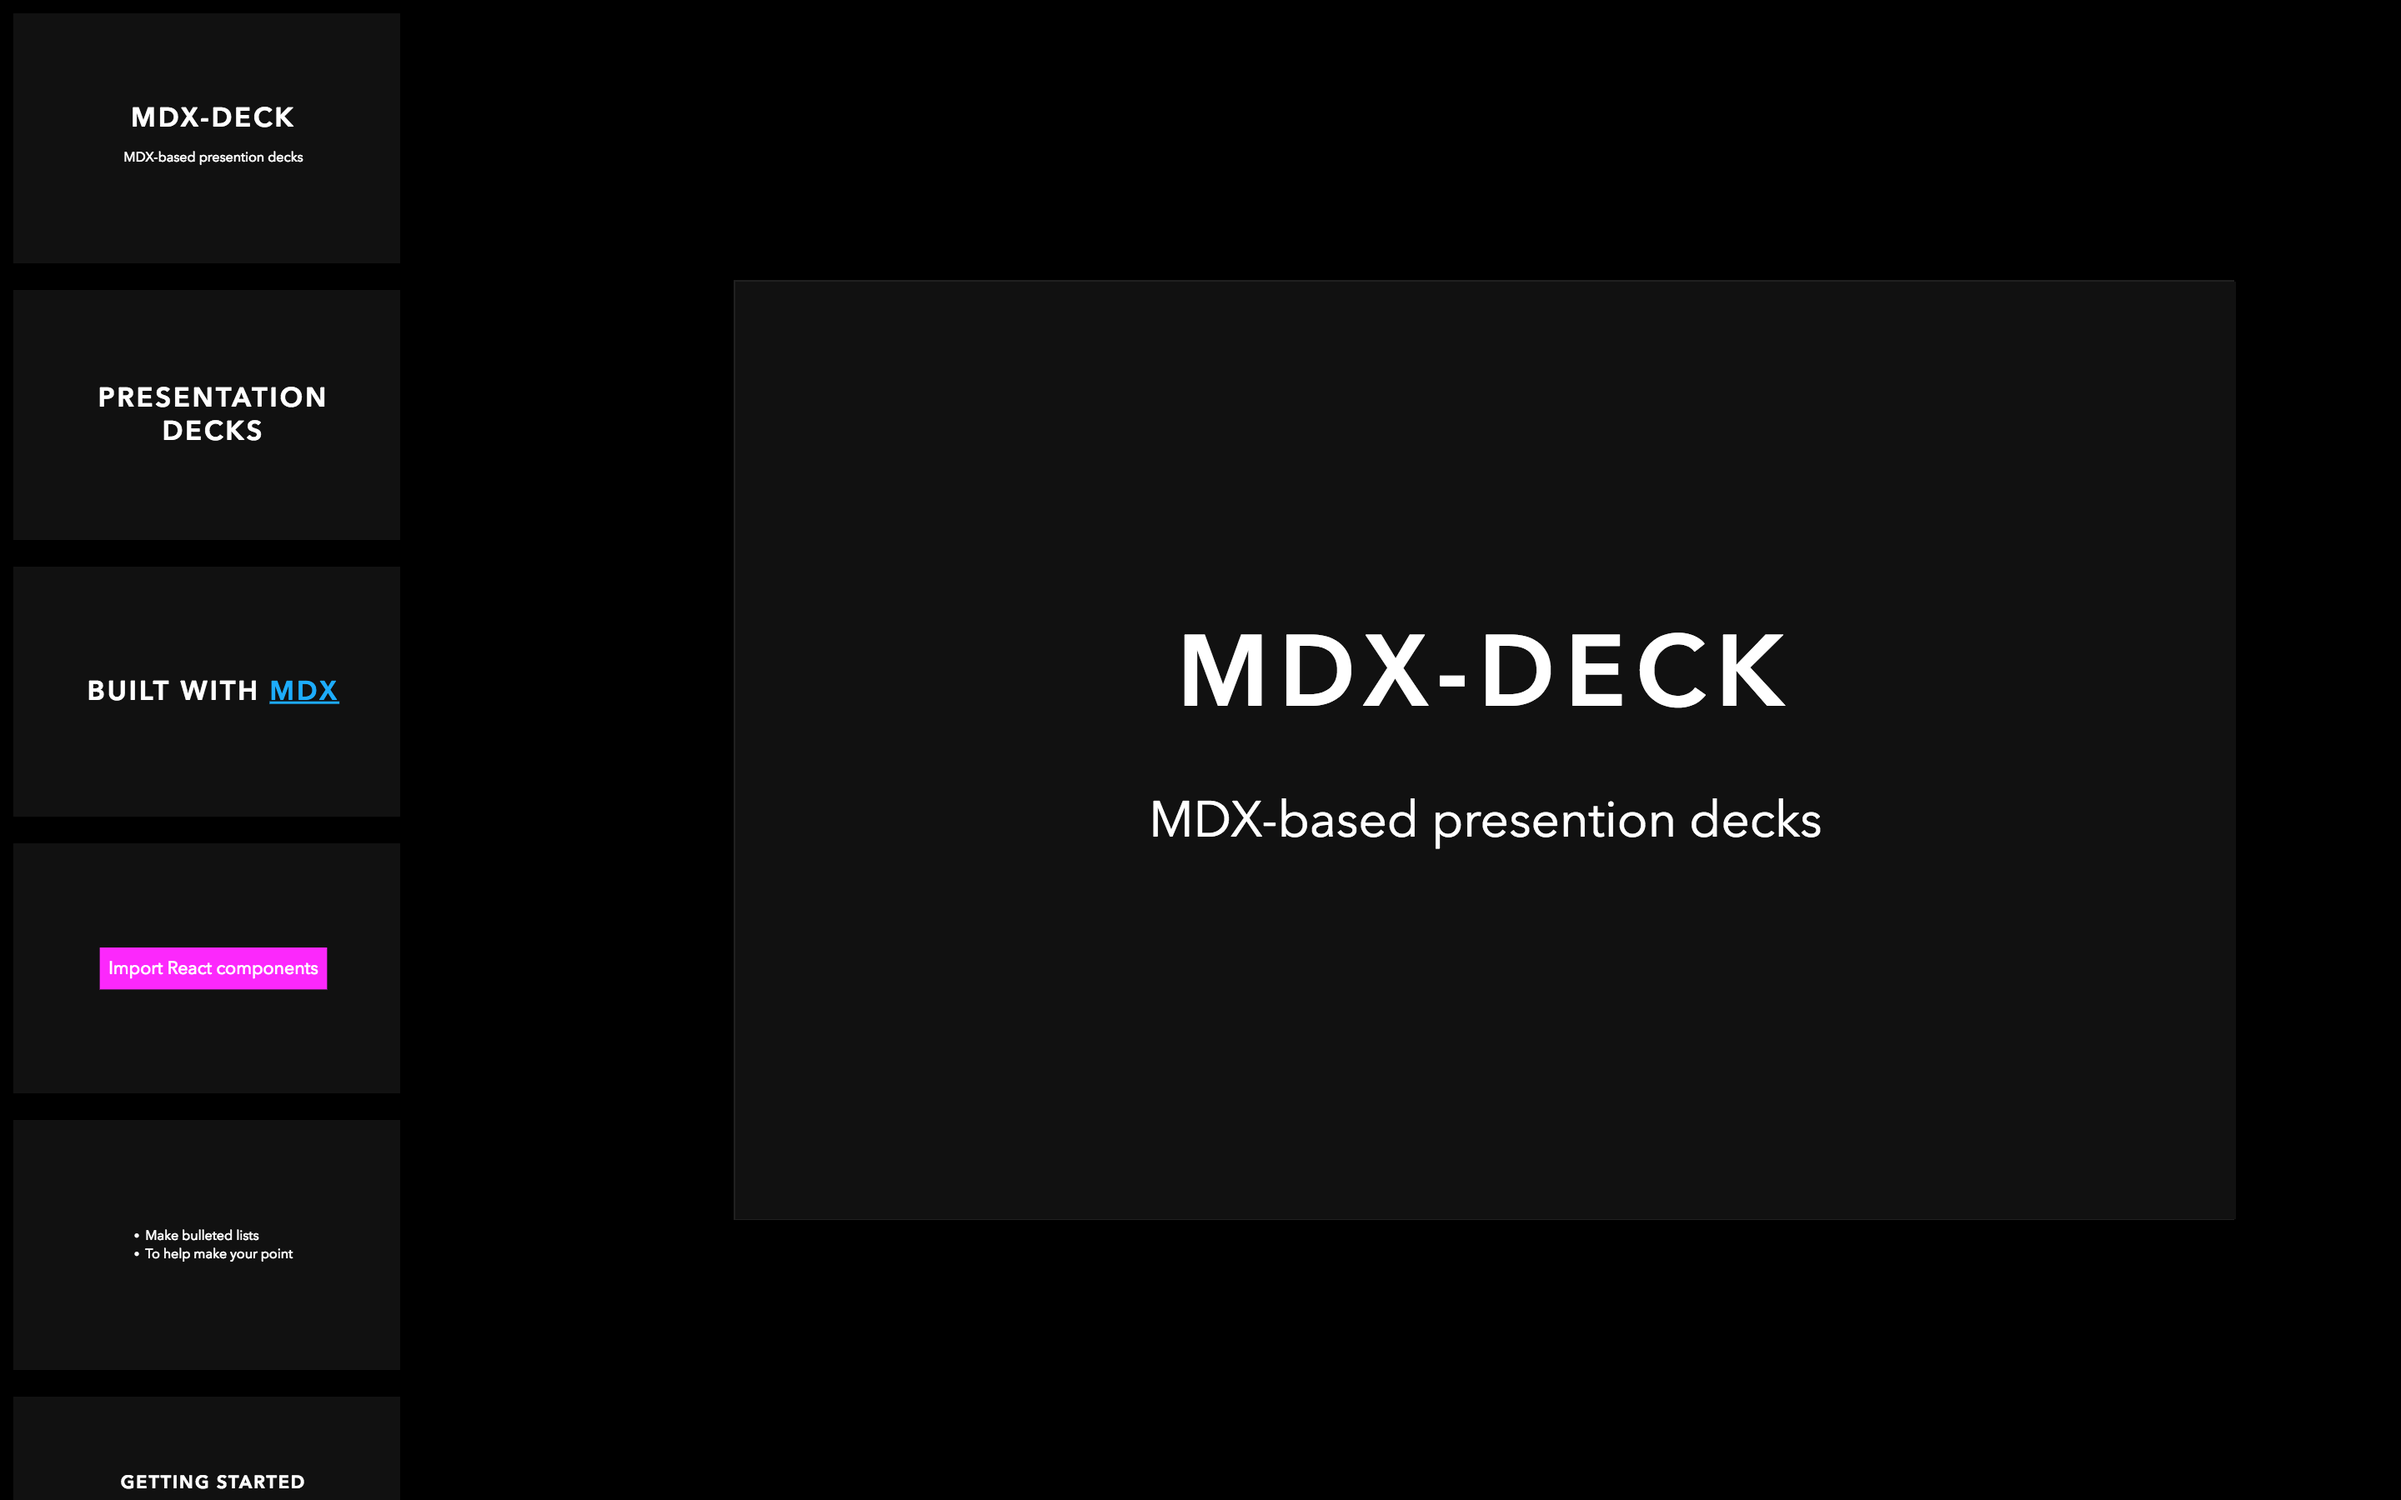
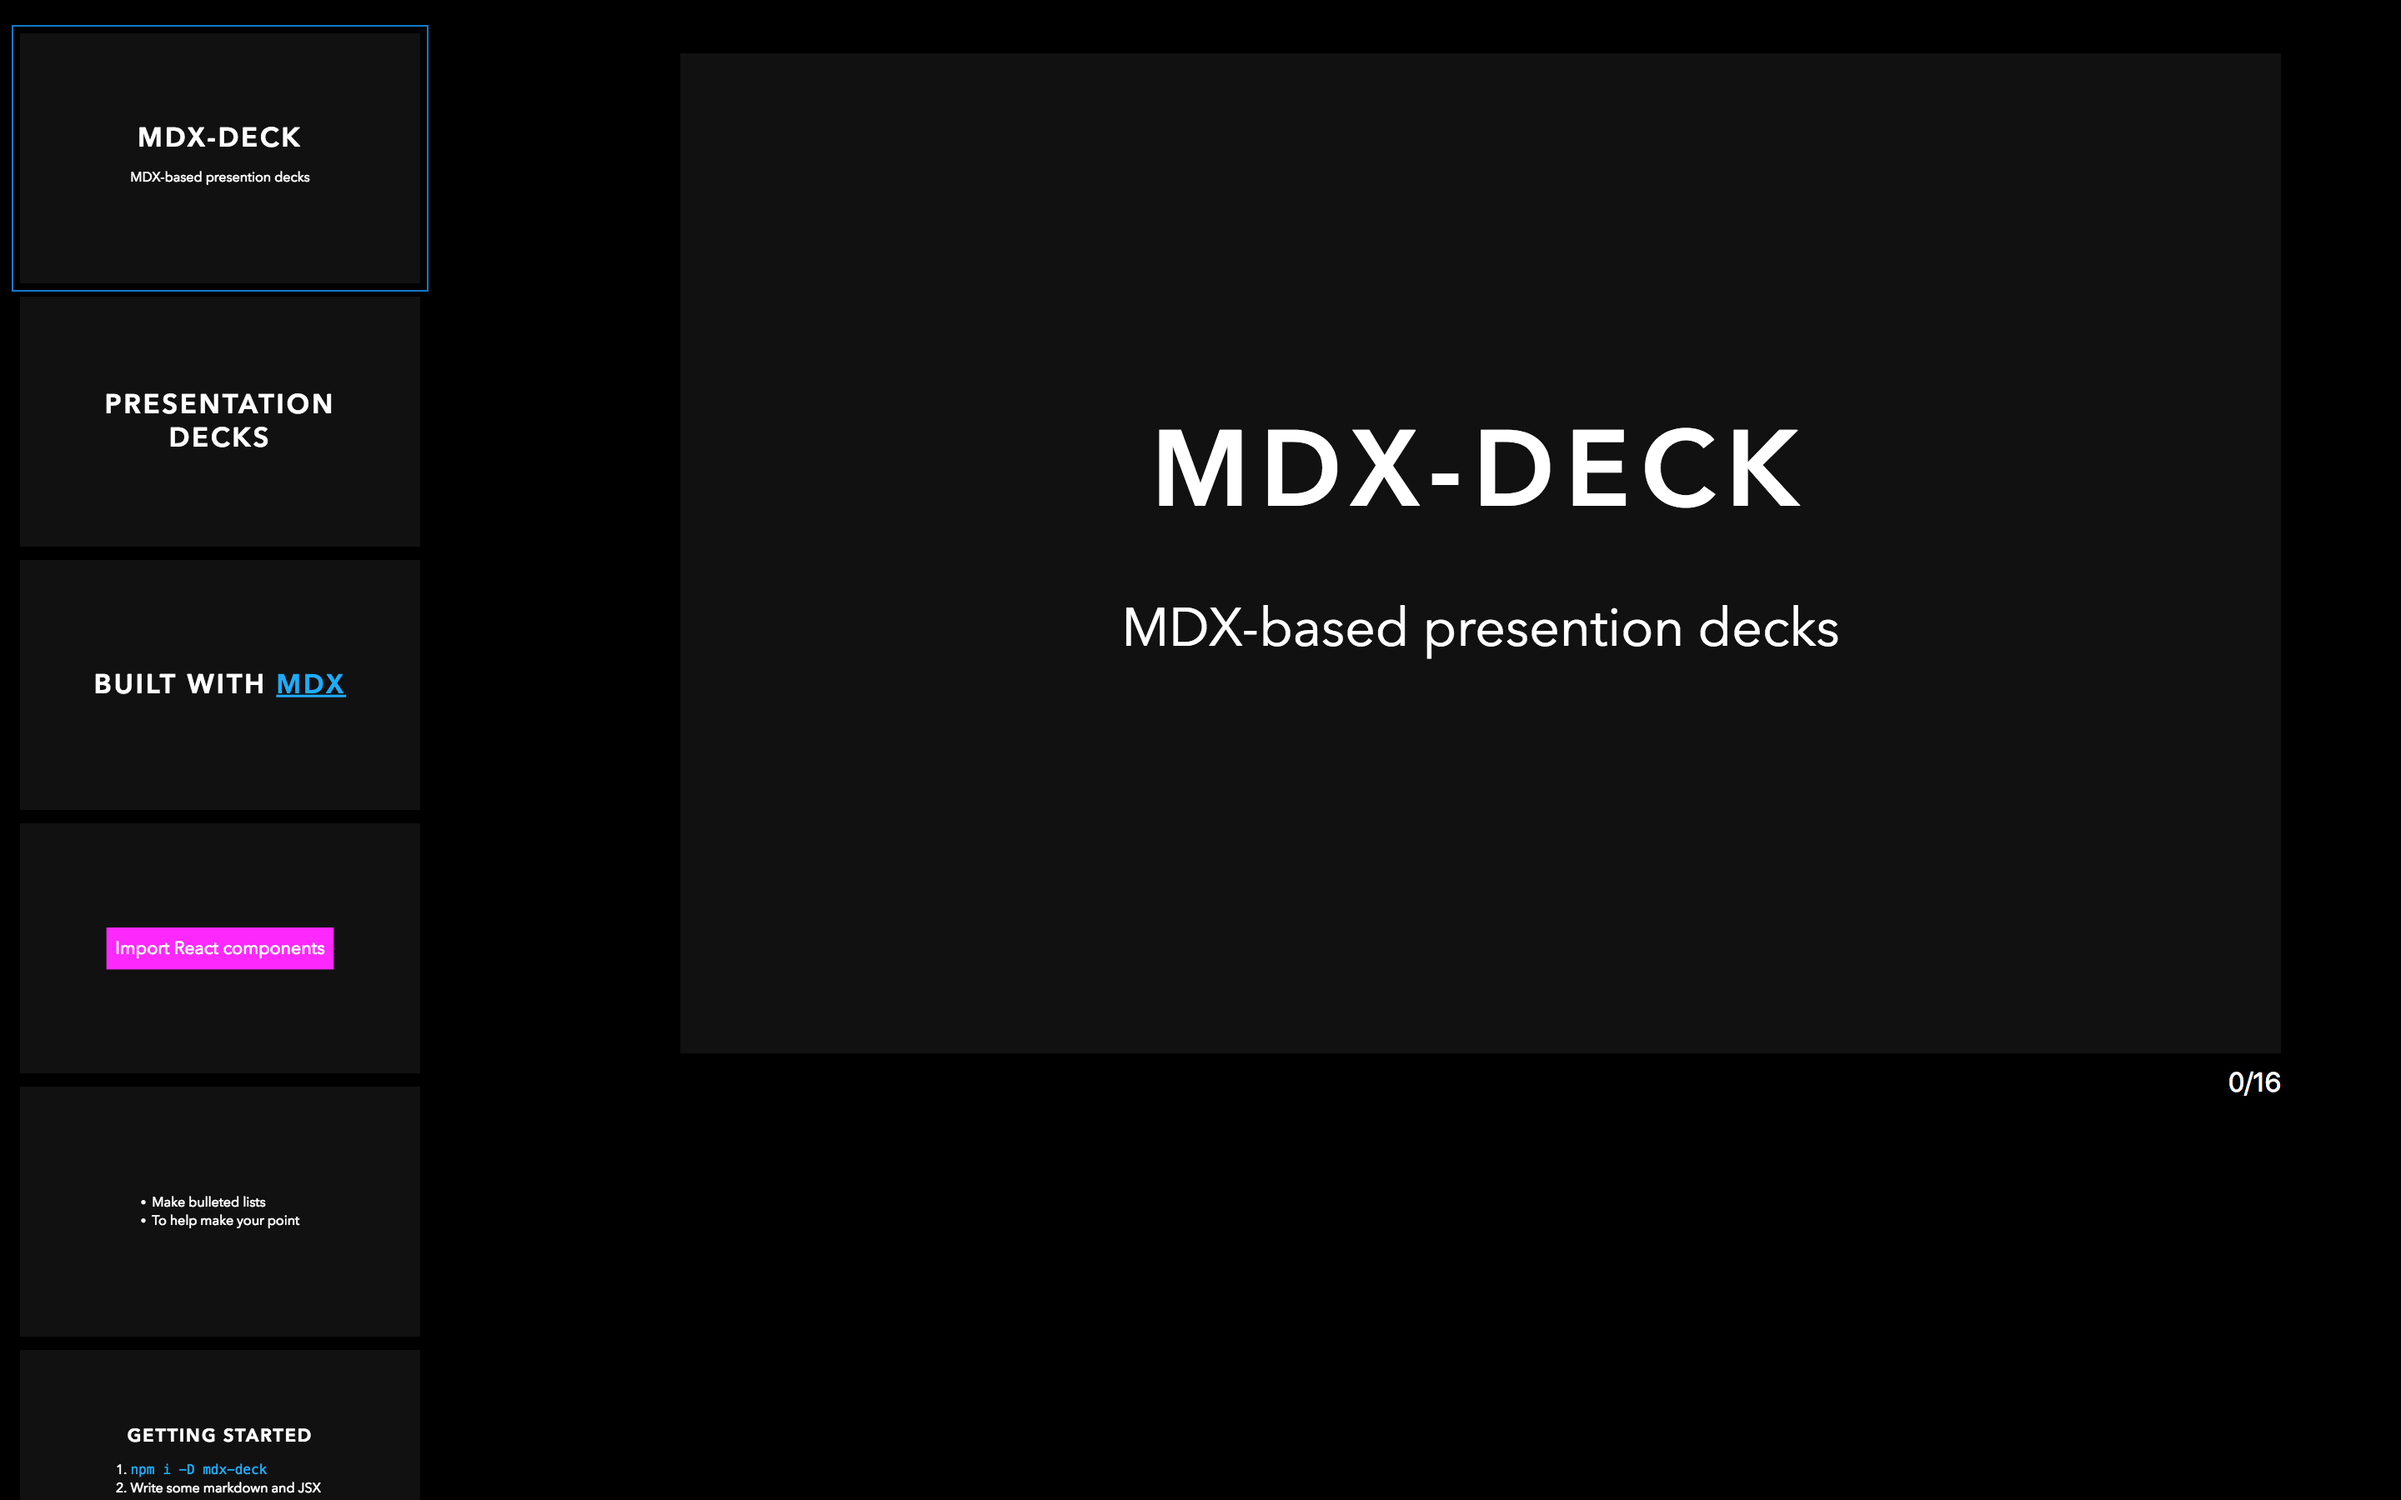
Edit docs

diff --git a/src/Overview.js b/src/Overview.js
@@ -29,6 +29,7 @@ export const Overview = ({
       <Box
         mr='auto'
         px={2}
+        py={3}
         css={{
           flex: 'none',
           height: '100vh',

diff --git a/README.md b/README.md
@@ -232,6 +232,8 @@ import { Notes } from 'mdx-deck'
 
 ## Overview Mode
 
+<img src='docs/images/overview-mode.png' width='256' />
+
 When editing a slide deck, toggle overview mode with `Option + O`.
 This shows a list of all slides on the left and a preview of the current slide on the right.
 
